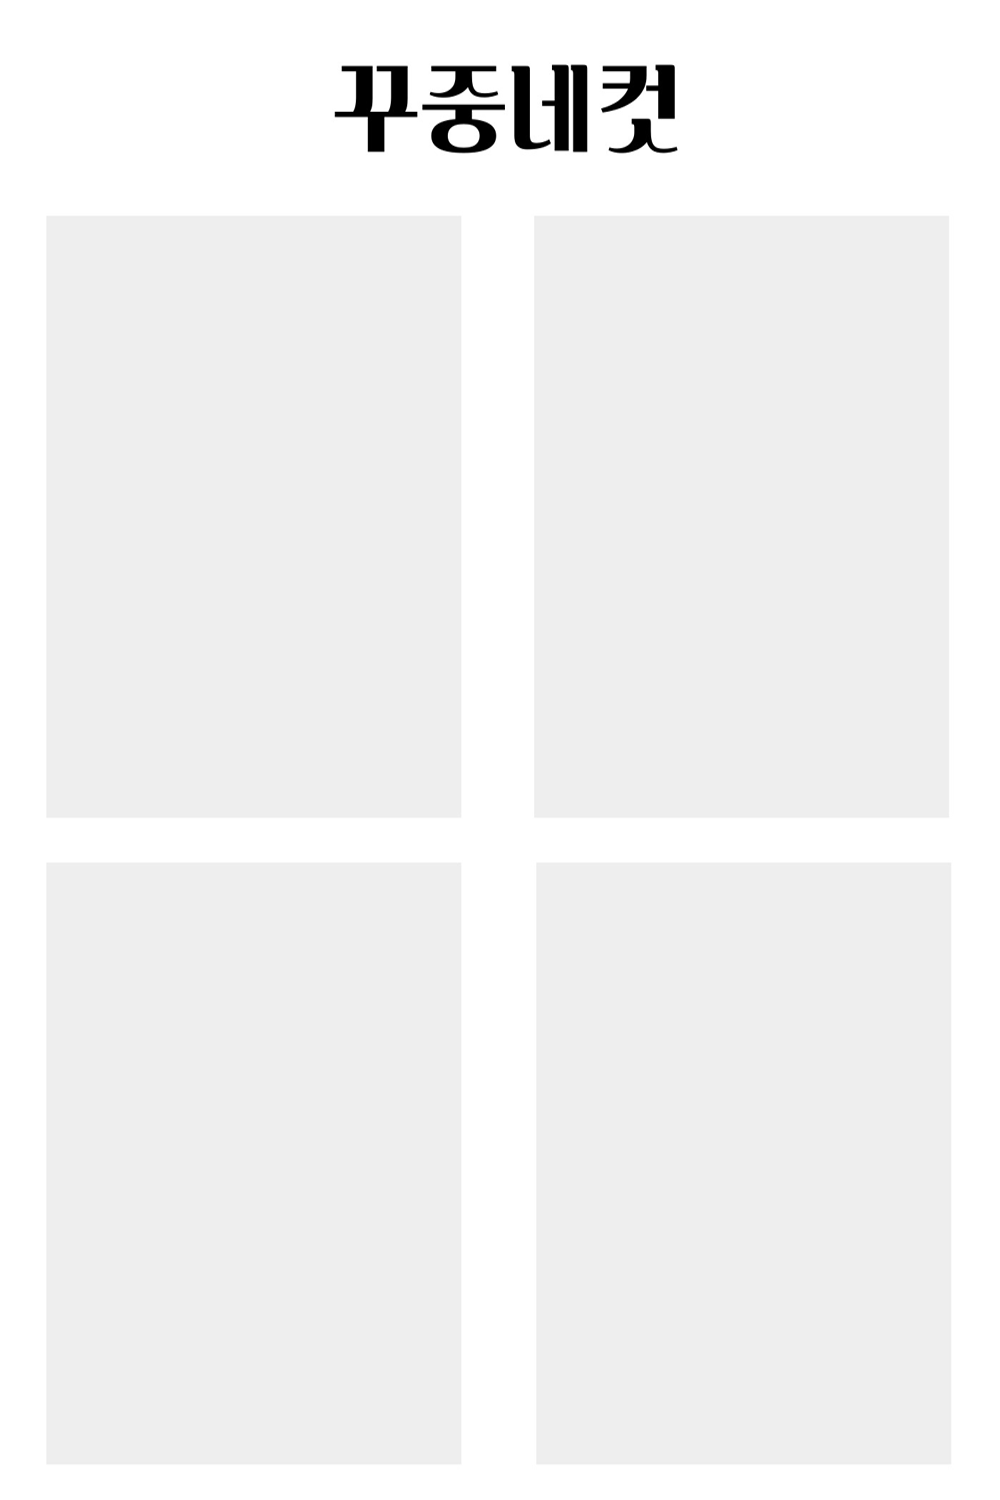
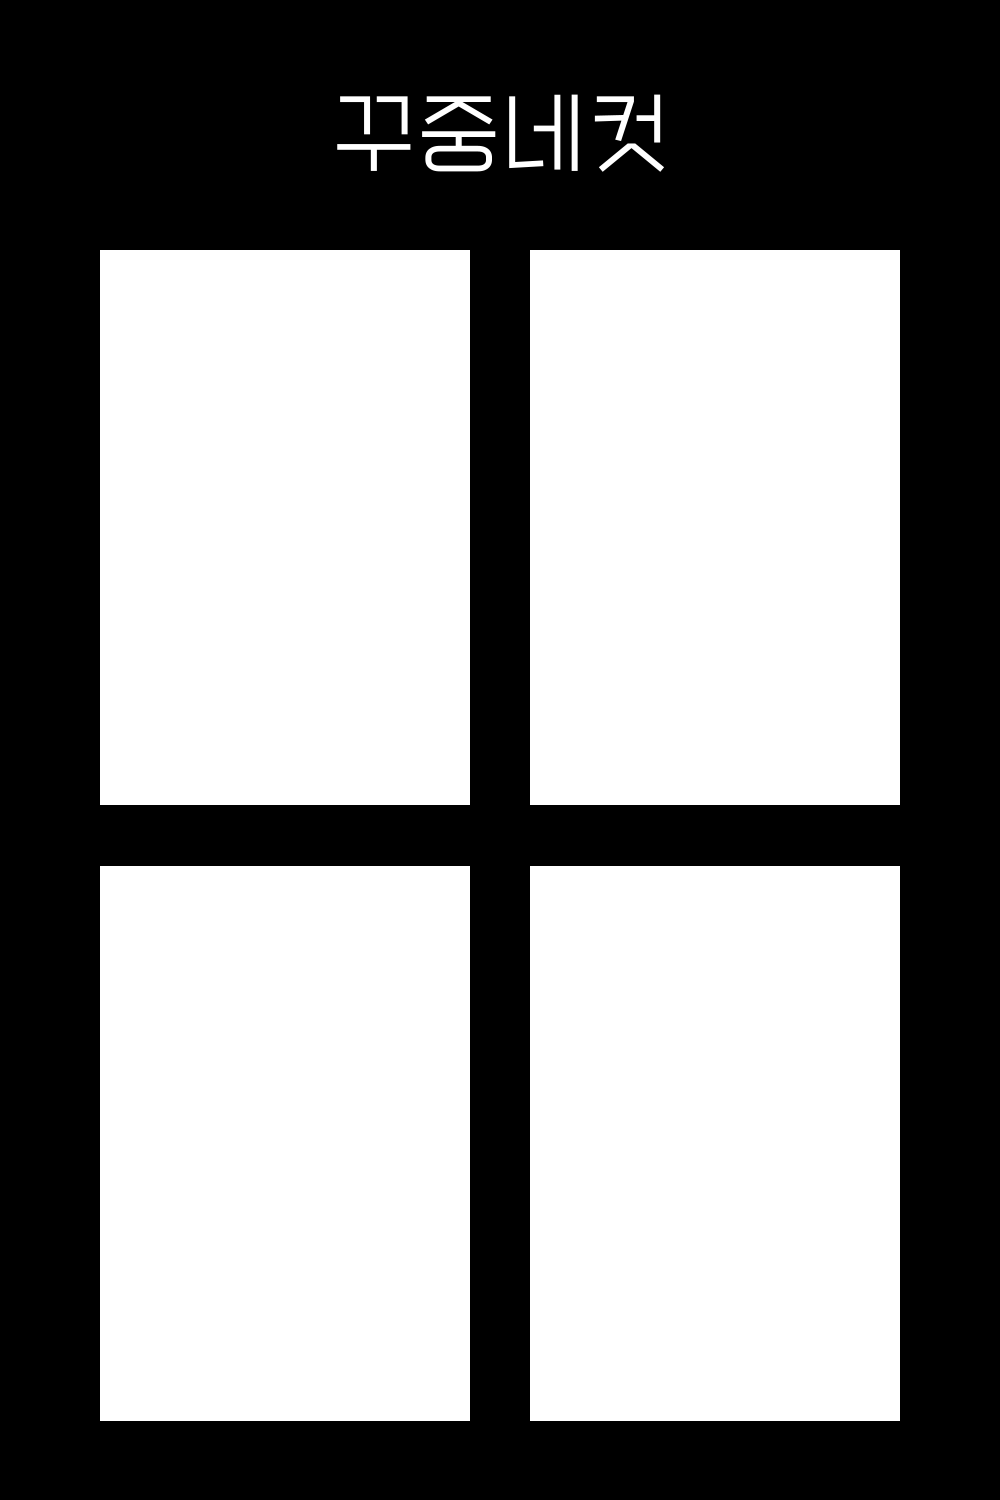
chore: Photo Edit & Add

diff --git a/fe/src/pages/Frameselect.tsx b/fe/src/pages/Frameselect.tsx
@@ -5,17 +5,26 @@ import { CountdownOverlay } from "../components/CountdownOverlay";
 import {getSelectedFrame, setSelectedFrame} from "../lib/selectFrame";
 import basic1 from "../img/frame/basic-1.png";
 import basic2 from "../img/frame/basic-2.png";
+import basic3 from "../img/frame/basic-3.png";
 import event1 from "../img/frame/event-1.png";
 import event2 from "../img/frame/event-2.png";
+import event3 from "../img/frame/event-3.png";
+import pre_basic1 from "../img/preview_frame/basic-1.png";
+import pre_basic2 from "../img/preview_frame/basic-2.png";
+import pre_basic3 from "../img/preview_frame/basic-3.png";
 import pre_event1 from "../img/preview_frame/event-1.png"
+import pre_event2 from "../img/preview_frame/event-2.png";
+import pre_event3 from "../img/preview_frame/event-3.png";
 
 
 // 메인과 프리뷰 이미지를 함께 관리하는 객체
 export const frames = [
-  { id: "basic-1", main: basic1, preview: basic1, label: "기본-1", type: "basic" },
-  { id: "basic-2", main: basic2, preview:basic2, label: "기본-2", type: "basic" },
+  { id: "basic-1", main: basic1, preview: pre_basic1, label: "기본-1", type: "basic" },
+  { id: "basic-2", main: basic2, preview:pre_basic2, label: "기본-2", type: "basic" },
+  { id: "basic-3", main: basic3, preview:pre_basic3, label: "기본-3", type: "basic" },
   { id: "event-1", main: event1, preview: pre_event1, label: "이벤트-1", type: "event" },
-  { id: "event-2", main: event2, preview: event2, label: "이벤트-2", type: "event" },
+  { id: "event-2", main: event2, preview: pre_event2, label: "이벤트-2", type: "event" },
+  { id: "event-3", main: event3, preview: pre_event3, label: "이벤트-3", type: "event" },
 ];
 
 export default function Frameselect() {

diff --git a/fe/src/lib/composePhotoQuad.ts b/fe/src/lib/composePhotoQuad.ts
@@ -67,8 +67,8 @@ export async function composeQuadImage(
 ): Promise<Blob> {
   const {
     design = { w: 1000, h: 1500 },
-    base = { x: 46, y: 142, w: 436, h: 647 },
-    gap = { x: 55, y: 39 },
+    base = { x: 100, y: 250, w: 370, h: 555 },
+    gap = { x: 60, y: 61 },
     count = 4,
     drawEmptyGuide = true,
     backgroundColor = "#ffffff",

diff --git a/fe/src/components/ResponsivePhotoQuad.tsx b/fe/src/components/ResponsivePhotoQuad.tsx
@@ -35,8 +35,8 @@ type Props = {
 
 export function ResponsivePhotoQuad({
   design = { w: 1000, h: 1500 },
-  base = { x: 46, y: 142, w: 436, h: 647 },
-  gap = { x: 55, y: 39 },
+  base = { x: 100, y: 250, w: 370, h: 555 },
+  gap = { x: 60, y: 61 },
   count = 4,
 
   slots,
